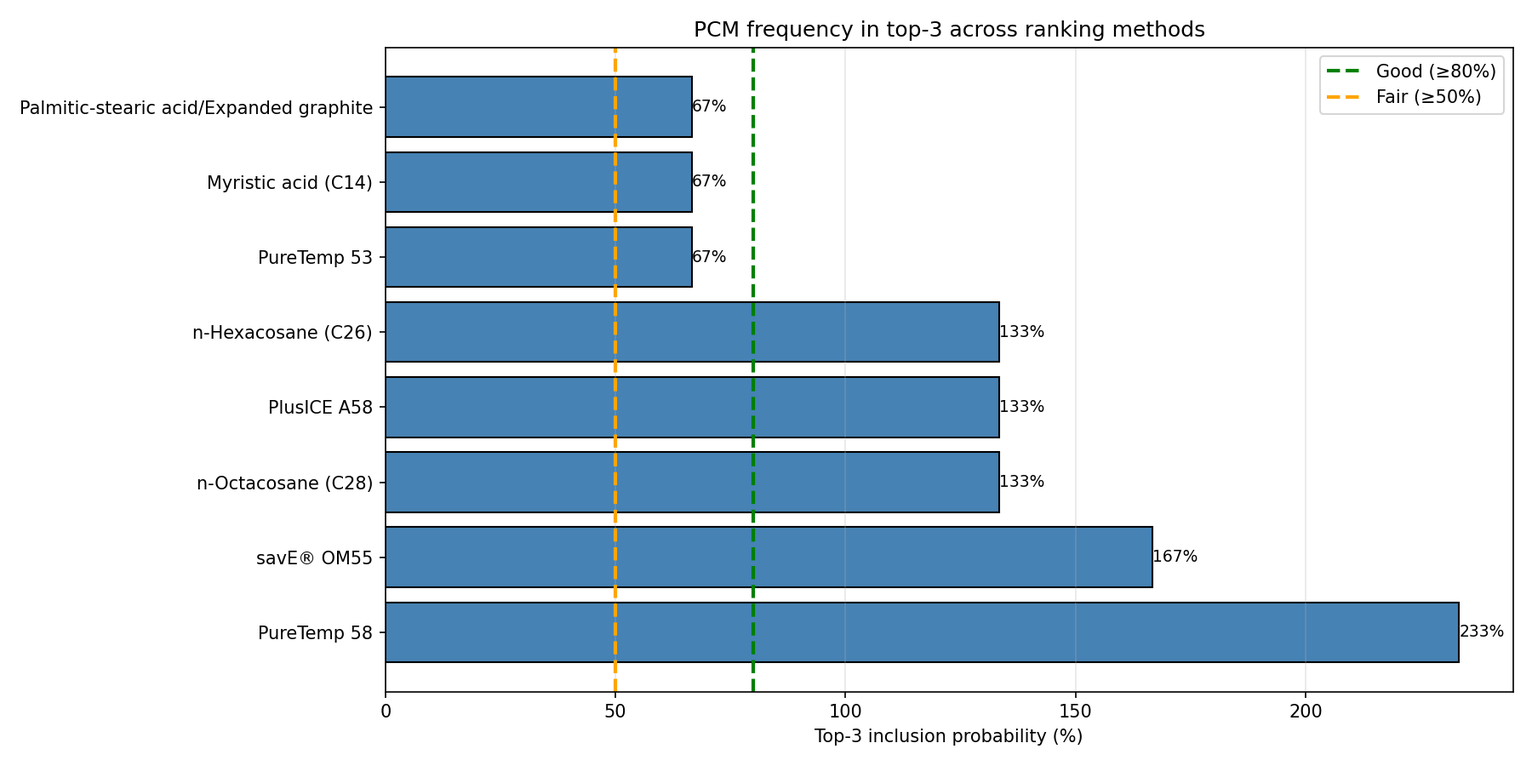
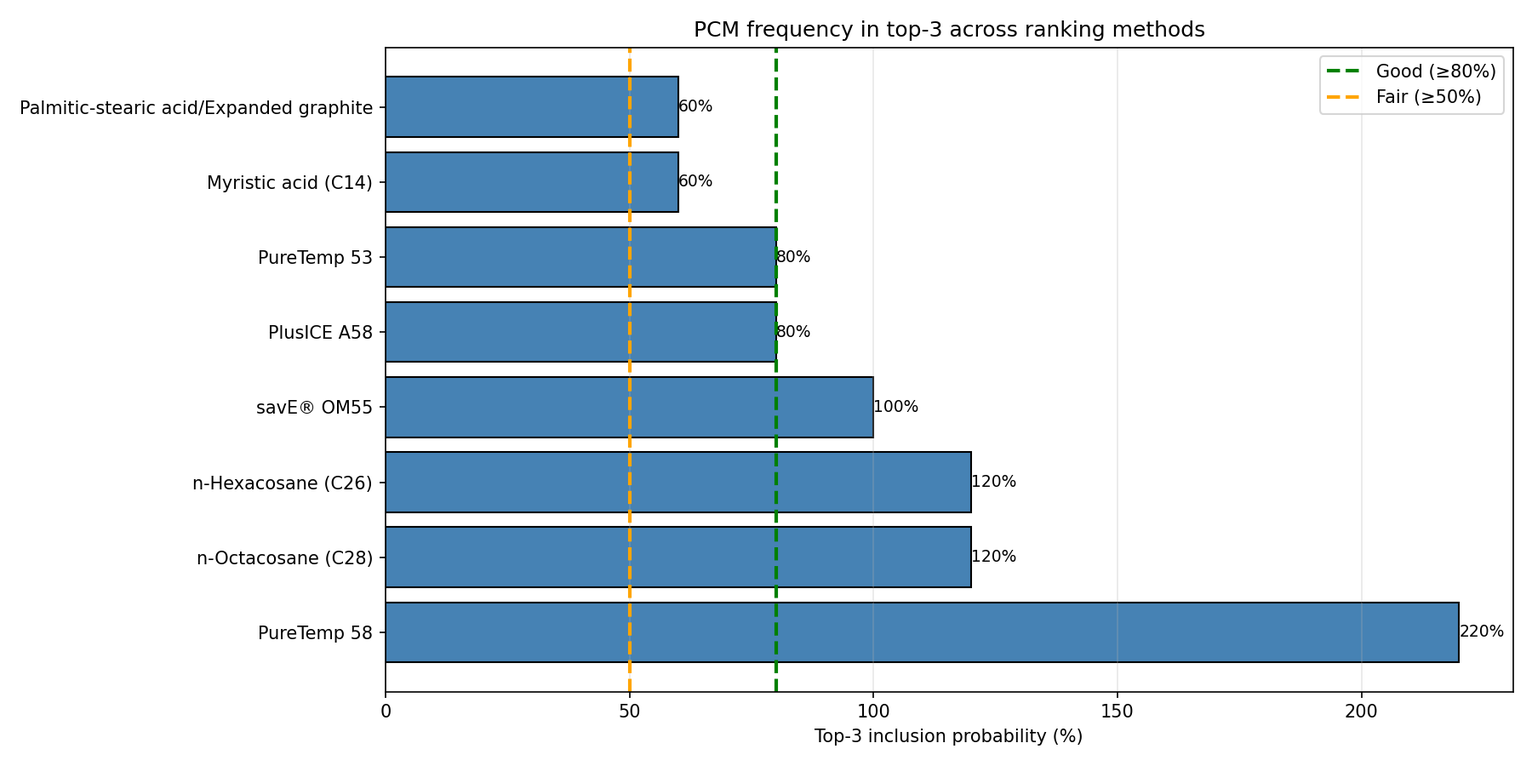
Implement corrosion veto and close verify_04's PROMETHEE/VIKOR coverage gap
07_feasibility_filter.py: implement the corrosion veto from plan v3.0
Table 12 - a corrosion_class="check_manually" (inorganic) candidate now
fails if that cluster's HSI exceeds the 75th percentile across all 5
clusters. Currently a documented no-op: all 55 database candidates are
organic (low_organic), so nothing is vetoed yet, but the filter is real
and will activate automatically once an inorganic candidate is added -
matches Assam's implementation and closes a previously-documented gap.
Verified survivor counts unchanged (29/30/29/27/29) since the veto has
nothing to reject with the current database; reran 08_mcdm_ranking.py to
confirm the downstream chain still runs cleanly against the updated file.

verify_04_ranking.py: rank_cols only ever covered topsis/gra/consensus,
silently omitting promethee_rank/vikor_rank that 08_mcdm_ranking.py has
computed for some time. Added fallback rank computation for both (
matching 08's own ascending/descending conventions) and generalized the
summary panel's pairwise-agreement text to loop over all rank_cols pairs
instead of three hardcoded ones. Confirmed by rerunning: now reports all
five methods and all 10 pairwise Spearman values.

Updated README.md, NEXT_STEPS.md, and the four docs/uttarakhand files
that documented the corrosion veto as unimplemented and the verify_04
gap as open, then regenerated docs/UTTARAKHAND_FULL_PIPELINE.md from the
corrected sources.

diff --git a/era5-uttarakhand/07_feasibility_filter.py b/era5-uttarakhand/07_feasibility_filter.py
@@ -20,14 +20,25 @@ Filters applied (Table 12; two are noted as NOT applied — see below):
   5. Supercooling veto    : exclude if supercooling > 8K (only applies
                             where the value is known; NaN passes through
                             flagged, not excluded)
+  6. Corrosion veto        : exclude a "check_manually" (inorganic)
+                            candidate if that cluster's HSI exceeds the
+                            75th percentile of HSI across all 5 clusters
+                            (plan v3.0 Table 12). IMPORTANT HONESTY NOTE:
+                            this filter is real and active, but currently
+                            a no-op — every one of the 55 candidates in
+                            06_build_pcm_database.py's output is organic
+                            (corrosion_class == "low_organic"), so the
+                            veto has nothing to reject yet. It will start
+                            binding automatically the moment an inorganic
+                            candidate (e.g. a salt hydrate) is added to
+                            the database. Implemented now for parity with
+                            Assam's pipeline and so it's ready rather than
+                            deferred again.
   NOT applied (need data this project doesn't have yet — flagged as
   future work, not silently skipped):
     - Charging feasibility at the cluster's 5th-percentile insolation day
       (needs a full daily GHI percentile per cluster, not just the mean
       in cluster_profiles_uttarakhand.csv)
-    - Corrosion veto against cluster HSI 75th percentile (needs a real
-      corrosion_class per PCM; the database currently only distinguishes
-      "low_organic" vs "check_manually" for the one inorganic PCM)
     - Safety exclusion (no toxicity data in the current database)
 
 If a cluster keeps fewer than 5 candidates, the melting window is
@@ -65,7 +76,7 @@ SUPERCOOLING_MAX_K = 8.0
 MIN_SURVIVORS, MAX_RELAX_STEPS, RELAX_STEP_K = 5, 4, 2.0
 
 
-def filter_cluster(pcm_db, tm_target, l_required, window_relax=0.0):
+def filter_cluster(pcm_db, tm_target, l_required, cluster_hsi, hsi_p75, window_relax=0.0):
     lo = tm_target - WINDOW_LOWER_OFFSET - window_relax
     hi = tm_target + WINDOW_UPPER_OFFSET + window_relax
 
@@ -84,8 +95,19 @@ def filter_cluster(pcm_db, tm_target, l_required, window_relax=0.0):
     df["pass_supercooling"] = np.where(
         df["supercooling_known"], df["supercooling_K"].abs() <= SUPERCOOLING_MAX_K, True)
 
+    # Corrosion veto (plan v3.0 Table 12): a "check_manually" (inorganic)
+    # candidate fails if THIS cluster's HSI exceeds the 75th percentile of
+    # HSI across all clusters. "low_organic" candidates always pass -- see
+    # the module docstring for why this is currently a no-op with the
+    # present (all-organic) database.
+    needs_corrosion_check = df["corrosion_class"].astype(str) == "check_manually"
+    cluster_is_humid = cluster_hsi > hsi_p75
+    df["pass_corrosion"] = ~(needs_corrosion_check & cluster_is_humid)
+    df["cluster_hsi"], df["hsi_p75_across_clusters"] = cluster_hsi, hsi_p75
+
     df["passes_all"] = (df["pass_melting_window"] & df["pass_absolute_band"] &
-                         df["pass_latent_heat"] & df["pass_cycling"] & df["pass_supercooling"])
+                         df["pass_latent_heat"] & df["pass_cycling"] & df["pass_supercooling"] &
+                         df["pass_corrosion"])
     df["window_lo"], df["window_hi"], df["window_relax_applied"] = lo, hi, window_relax
     return df
 
@@ -113,6 +135,14 @@ def main():
               "Check 05's profile_cols list includes them.")
         return
 
+    if "HSI" not in profiles.columns:
+        print("\n  ERROR: cluster_profiles_uttarakhand.csv is missing HSI — needed for the "
+              "corrosion veto's cluster-humidity comparison.")
+        return
+    hsi_p75 = float(np.percentile(profiles["HSI"].values, 75))
+    print(f"  HSI 75th percentile across clusters: {hsi_p75:.2f} "
+          f"(per-cluster HSI: {profiles['HSI'].round(2).tolist()})")
+
     all_rows = []
     for _, prof in profiles.iterrows():
         cid = int(prof["cluster_id"])
@@ -121,10 +151,12 @@ def main():
         tm_target = (prof["Tm_target_C_regime_capped"]
                      if "Tm_target_C_regime_capped" in prof.index else prof["Tm_target_C"])
         l_required = prof["L_required_kJ_per_kg"]
+        cluster_hsi = float(prof["HSI"])
 
         relax = 0.0
         for step in range(MAX_RELAX_STEPS + 1):
-            result = filter_cluster(pcm_db, tm_target, l_required, window_relax=relax)
+            result = filter_cluster(pcm_db, tm_target, l_required, cluster_hsi, hsi_p75,
+                                     window_relax=relax)
             n_survivors = int(result["passes_all"].sum())
             if n_survivors >= MIN_SURVIVORS or step == MAX_RELAX_STEPS:
                 break

diff --git a/era5-uttarakhand/verify_04_ranking.py b/era5-uttarakhand/verify_04_ranking.py
@@ -39,10 +39,18 @@ if 'topsis_rank' not in topk.columns and 'topsis_score' in topk.columns:
     topk['topsis_rank'] = topk.groupby('cluster_id')['topsis_score'].rank(ascending=False, method='min').astype(int)
 if 'gra_rank' not in topk.columns and 'gra_grade' in topk.columns:
     topk['gra_rank'] = topk.groupby('cluster_id')['gra_grade'].rank(ascending=False, method='min').astype(int)
+# PROMETHEE II (higher net flow = better) and VIKOR (lower Q = better) were
+# added to 08_mcdm_ranking.py after this script was first written -- these
+# two blocks close that gap so the method-agreement analysis below actually
+# covers all four ranking methods, not just the original two.
+if 'promethee_rank' not in topk.columns and 'promethee_flow' in topk.columns:
+    topk['promethee_rank'] = topk.groupby('cluster_id')['promethee_flow'].rank(ascending=False, method='min').astype(int)
+if 'vikor_rank' not in topk.columns and 'vikor_Q' in topk.columns:
+    topk['vikor_rank'] = topk.groupby('cluster_id')['vikor_Q'].rank(ascending=True, method='min').astype(int)
 if 'consensus_rank' not in topk.columns and 'borda_score' in topk.columns:
     topk['consensus_rank'] = topk.groupby('cluster_id')['borda_score'].rank(ascending=False, method='min').astype(int)
 
-rank_cols = [c for c in ['topsis_rank', 'gra_rank', 'consensus_rank'] if c in topk.columns]
+rank_cols = [c for c in ['topsis_rank', 'gra_rank', 'promethee_rank', 'vikor_rank', 'consensus_rank'] if c in topk.columns]
 score_cols = [c for c in full.columns if c.endswith('_score') or c.endswith('_grade')]
 print(f"Ranking columns used: {rank_cols}")
 print(f"Score columns available: {score_cols[:10]}")
@@ -177,15 +185,15 @@ Number of clusters: {topk['cluster_id'].nunique()}
 
 Method agreement (Spearman rho):
 """
-if 'topsis_rank' in topk.columns and 'gra_rank' in topk.columns:
-    corr, _ = spearmanr(topk['topsis_rank'].dropna(), topk['gra_rank'].dropna())
-    summary += f"  TOPSIS vs GRA: {corr:.3f}\n"
-if 'topsis_rank' in topk.columns and 'consensus_rank' in topk.columns:
-    corr, _ = spearmanr(topk['topsis_rank'].dropna(), topk['consensus_rank'].dropna())
-    summary += f"  TOPSIS vs CONSENSUS: {corr:.3f}\n"
-if 'gra_rank' in topk.columns and 'consensus_rank' in topk.columns:
-    corr, _ = spearmanr(topk['gra_rank'].dropna(), topk['consensus_rank'].dropna())
-    summary += f"  GRA vs CONSENSUS: {corr:.3f}\n"
+# All pairwise combinations of rank_cols, not just the three original
+# TOPSIS/GRA/CONSENSUS pairs -- this now also covers PROMETHEE and VIKOR.
+for i, c1 in enumerate(rank_cols):
+    for c2 in rank_cols[i + 1:]:
+        valid = topk[[c1, c2]].dropna()
+        if len(valid) < 2:
+            continue
+        corr, _ = spearmanr(valid[c1], valid[c2])
+        summary += f"  {c1.replace('_rank', '').upper()} vs {c2.replace('_rank', '').upper()}: {corr:.3f}\n"
 summary += f"\nTop-3 consensus candidates:\n"
 if 'name' in topk.columns and 'consensus_rank' in topk.columns:
     top3 = topk[topk['consensus_rank'] <= 3][['name', 'consensus_rank']].drop_duplicates().sort_values('consensus_rank').head(3)

diff --git a/docs/UTTARAKHAND_FULL_PIPELINE.md b/docs/UTTARAKHAND_FULL_PIPELINE.md
@@ -27,6 +27,10 @@ This document consolidates the complete, verified Uttarakhand audit documentatio
 
 ---
 
+---
+
+---
+
 # Source File 0: 00_MASTER_OVERVIEW.md
 Source: `docs/uttarakhand/00_MASTER_OVERVIEW.md`
 
@@ -317,7 +321,7 @@ what the Uttarakhand pipeline demonstrably does.
 | 2 — Combine + Tier-2 | Two independent sources cross-checked | ERA5 + NASA POWER at identical points/instants; full agreement statistics computed | **Delivered, but the disagreement is never acted upon** |
 | 3 — Climate Signature | Two-tier signature (sun-event + true daily integral) | 18 indices; Tier-2 canonical where available; PCA on the thermodynamic block only | **Delivered — and it insulated the clustering matrix from the pipeline's largest data defect** |
 | 4 — Regime Clustering | Discovered regimes, not hand-picked zones | GMM **diagonal** covariance, K = 5 by manual selection from a BIC/silhouette table; lat/lon excluded | **Delivered** — clusters are spatially coherent without clustering on geography (silhouette 0.28). **But** no bootstrap stability and no external classification |
-| 5 — Feasibility Filtering | Corrected 42–70 °C SWH-specific PCM band | Band enforced; melting window [52, 65] °C at `Tm_target = 57` (regime-capped to 55.16/56.51 for Clusters 1/2) | **Partially delivered** — the corrosion veto cannot activate (all 55 candidates organic, and the database doesn't yet carry corrosion-class data); other Table-12 filters still unimplemented. Regime-capping now genuinely differentiates survivor counts (29/30/29/27/29) |
+| 5 — Feasibility Filtering | Corrected 42–70 °C SWH-specific PCM band | Band enforced; melting window [52, 65] °C at `Tm_target = 57` (regime-capped to 55.16/56.51 for Clusters 1/2) | **Delivered, with one filter still a documented no-op.** Corrosion veto is now implemented (2026-09) — the database DOES carry `corrosion_class` data (assigned in `06`), it's just that all 55 current candidates are organic (`low_organic`), so the veto has nothing to reject yet; it activates automatically once an inorganic candidate is added. The 5th-percentile-day charging-feasibility filter is still unimplemented (needs a daily GHI percentile per cluster). Regime-capping genuinely differentiates survivor counts (29/30/29/27/29) |
 | 6 — MCDM Ranking | Top-3 with explicit method-agreement reporting | TOPSIS + GRA + PROMETHEE II + VIKOR, entropy/AHP weights, Gaussian Tm fitness, Borda, Kendall's W | **Delivered** — four independent methods, Kendall's W 0.708–0.842 per cluster, VIKOR now correctly reports compromise sets (Clusters 1 and 2) instead of false single winners |
 | 7 — Physics Validation | Physics-validated ranking | Backward-Euler grey-box lumped-enthalpy tank model (`10_physics_validation.py`), Spearman rho of consensus rank vs. simulated solar fraction per cluster | **Delivered, and an honest negative result** — 0% of simulations land in the 54–84% literature benchmark band (actual ~15–19%); per-cluster rho ranges −0.227 to +0.171, none significant. This is a genuine finding once two solver bugs were fixed, not evidence the model is broken |
 | 8 — Recommendation Cards | Per-regime explainable output | 5 cards; population-weighted profiles; Top-3 with per-method scores and Kendall's W | **Delivered**; regenerated against the current, corrected results; output still not committed (git-ignored) |
@@ -574,13 +578,15 @@ group") and step 11's VIF ("computed over fewer independent spatial samples"). I
 a high silhouette is "more likely to mean an over-simple signature than a genuinely crisp regime
 split" at this N, and that K should realistically be 2–4 rather than higher.
 
-**Corrosion mechanism.** `NEXT_STEPS.md` anticipates that "the corrosion veto [will] bite for
-high-monsoon-humidity Uttarakhand clusters (Terai/valley points during Jun-Sep) … same veto,
-different physical mechanism, worth noting in text." **This still has not happened** — the
-corrosion veto is not implemented in `07_feasibility_filter.py` at all (its docstring lists it
-under "NOT applied"), and every one of the 55 database candidates is organic, so the veto could
-not have activated even if it had been implemented. This remains a genuine, documented scope gap
-(not something the 2026-09 bug fixes touched).
+**Corrosion mechanism — implemented (2026-09), still can't activate yet.** `NEXT_STEPS.md`
+anticipates that "the corrosion veto [will] bite for high-monsoon-humidity Uttarakhand clusters
+(Terai/valley points during Jun-Sep) … same veto, different physical mechanism, worth noting in
+text." `07_feasibility_filter.py` now implements the veto logic (a `corrosion_class="check_manually"`
+candidate fails if that cluster's HSI exceeds the 75th percentile across all 5 clusters) — but it
+still can't bite for the reason this section originally gave: every one of the 55 database
+candidates is organic (`corrosion_class="low_organic"`), so there's nothing for the veto to reject.
+It will activate automatically once an inorganic candidate (e.g. a salt hydrate) is added to the
+database — a data-coverage gap now, not a missing-logic gap.
 
 **`Tm_target` — RESOLVED (2026-09), was the dominant cause of identical results, no longer is.**
 `04b_climate_signature.py` sets a baseline `Tm_target_C = 57` for every point by design
@@ -2715,7 +2721,7 @@ constraining a PCM property. The Uttarakhand implementation's mapping:
 |---|---|---|
 | `GHI_mean` | Mean solar irradiance at the charging instant | Charging-rate feasibility; upper bound on achievable `Tm` |
 | `RH_mean` | Annual mean relative humidity → condensation risk at the PCM container | Corrosion-resistance requirement; encapsulation choice |
-| `HSI` | `RH_mean × fraction(T_amb − T_dew < 3 K)` — combined humidity + near-saturation signal | Intended as the corrosion-veto trigger. **In this run it triggers nothing** — `07`'s corrosion veto is not implemented, and all 55 database candidates are organic. |
+| `HSI` | `RH_mean × fraction(T_amb − T_dew < 3 K)` — combined humidity + near-saturation signal | The corrosion-veto trigger — **implemented in `07` (2026-09)**, comparing each cluster's HSI against the 75th percentile across all clusters. **Still triggers nothing in this run** — all 55 database candidates are organic, so the veto has no inorganic candidate to reject yet, not because the logic is missing. |
 | `wind_mean` | Mean wind speed → convective loss from collector and tank | Tank/collector loss coefficient; indirectly the required storage margin |
 | `monsoon_index` | JJAS share of annual precipitation → seasonal charging gap | Storage sizing for the monsoon under-charging window (descriptive, not a ranking criterion) |
 | `elevation_m` | Real per-point elevation (ERA5 geopotential, 196-2510m) — **was** `mean(P_atm)/1013.25`, a pressure-ratio proxy, fixed 2026-09 | Air mass into the Ineichen clear-sky model (via `02`'s per-point altitude, also fixed); PCA thermodynamic block |
@@ -3679,13 +3685,15 @@ v3.0 Table 12. The MICE + RF + PMM method is described at length with **no** cit
    making the cap a no-op regardless of how the script was run). Fixed; Clusters 1 (Tm_target=55.16C)
    and 2 (56.51C) now get real, differentiated survivor sets (30 and 29 respectively, vs. 29/27/29
    for Clusters 0/3/4).
-2. **Three of the five plan Table-12 filters are not implemented**, and the script says so in its
-   own docstring rather than hiding it: 5th-percentile-day charging feasibility, corrosion veto,
-   safety exclusion.
-3. **The corrosion veto could not activate even if implemented** — every one of the 55 candidates
-   is organic, so `corrosion_class` is `low_organic` for all of them. `NEXT_STEPS.md`'s expectation
-   that the veto would "bite for high-monsoon-humidity Uttarakhand clusters" cannot be realised
-   with this database.
+2. **~~Three of the five plan Table-12 filters are not implemented~~ — now two.** Corrosion veto
+   is implemented (2026-09, see item 3); 5th-percentile-day charging feasibility and safety
+   exclusion remain unimplemented, and the script says so in its own docstring rather than hiding it.
+3. **The corrosion veto is implemented but cannot activate with the current database** — every one
+   of the 55 candidates is organic, so `corrosion_class` is `low_organic` for all of them (verified
+   directly against the database), leaving nothing for the veto to reject. `NEXT_STEPS.md`'s
+   expectation that the veto would "bite for high-monsoon-humidity Uttarakhand clusters" still
+   cannot be realised with this database — but the veto will fire automatically the moment an
+   inorganic candidate (e.g. a salt hydrate) is added, without any further code change.
 4. **`07`'s low-survivor warning string is stale**: it prints "your database (25 rows) is thin for
    this" while the database is 55 rows. It would not have fired in this run anyway (29 > 5).
 5. **Auto-relaxation never triggered** (29 >= 5 in every cluster), so `window_relax_applied` is 0
@@ -4710,13 +4718,17 @@ from all five clusters at once**, not per cluster. They are not the per-cluster 
 agreement statistic — that is Kendall's W, verified from `08_mcdm_ranking.py`'s current output:
 0.796/0.842/0.782/0.708/0.796 for Clusters 0-4.
 
-**Caveat 2 (newly identified, 2026-09) — this verify script's coverage hasn't kept up with `08`'s
-method count.** `08_mcdm_ranking.py` now computes four methods (TOPSIS+GRA+PROMETHEE+VIKOR), but
-`verify_04_ranking.py`'s `rank_cols` only ever looks at `['topsis_rank', 'gra_rank',
-'consensus_rank']` (confirmed by reading the current script) — `promethee_rank` and `vikor_rank`
-are silently absent from its method-agreement analysis. Not a pipeline-correctness bug (the actual
-MCDM ranking is unaffected), but a real gap in this specific verification script's coverage,
-left open.
+**Caveat 2 — RESOLVED (2026-09), same session it was identified in.** This verify script's
+coverage had fallen behind `08`'s method count: `08_mcdm_ranking.py` computes four methods
+(TOPSIS+GRA+PROMETHEE+VIKOR), but `verify_04_ranking.py`'s `rank_cols` only looked at
+`['topsis_rank', 'gra_rank', 'consensus_rank']`, silently omitting `promethee_rank`/`vikor_rank`
+from every downstream analysis (the correlation matrix, top-3 inclusion probability, rank
+reversal, and the summary panel). Fixed: `rank_cols` now includes all five columns
+(`topsis_rank, gra_rank, promethee_rank, vikor_rank, consensus_rank`), with fallback rank
+computation added for the two new methods (`promethee_flow` descending, `vikor_Q` ascending —
+matching `08`'s own conventions) and the summary panel's pairwise-agreement text generalized to
+loop over all pairs instead of three hardcoded ones. Confirmed by rerunning: `Methods:` now prints
+all five columns, `06_summary.png` shows all 10 pairwise Spearman values.
 
 ---
 

diff --git a/docs/uttarakhand/00_MASTER_OVERVIEW.md b/docs/uttarakhand/00_MASTER_OVERVIEW.md
@@ -285,7 +285,7 @@ what the Uttarakhand pipeline demonstrably does.
 | 2 — Combine + Tier-2 | Two independent sources cross-checked | ERA5 + NASA POWER at identical points/instants; full agreement statistics computed | **Delivered, but the disagreement is never acted upon** |
 | 3 — Climate Signature | Two-tier signature (sun-event + true daily integral) | 18 indices; Tier-2 canonical where available; PCA on the thermodynamic block only | **Delivered — and it insulated the clustering matrix from the pipeline's largest data defect** |
 | 4 — Regime Clustering | Discovered regimes, not hand-picked zones | GMM **diagonal** covariance, K = 5 by manual selection from a BIC/silhouette table; lat/lon excluded | **Delivered** — clusters are spatially coherent without clustering on geography (silhouette 0.28). **But** no bootstrap stability and no external classification |
-| 5 — Feasibility Filtering | Corrected 42–70 °C SWH-specific PCM band | Band enforced; melting window [52, 65] °C at `Tm_target = 57` (regime-capped to 55.16/56.51 for Clusters 1/2) | **Partially delivered** — the corrosion veto cannot activate (all 55 candidates organic, and the database doesn't yet carry corrosion-class data); other Table-12 filters still unimplemented. Regime-capping now genuinely differentiates survivor counts (29/30/29/27/29) |
+| 5 — Feasibility Filtering | Corrected 42–70 °C SWH-specific PCM band | Band enforced; melting window [52, 65] °C at `Tm_target = 57` (regime-capped to 55.16/56.51 for Clusters 1/2) | **Delivered, with one filter still a documented no-op.** Corrosion veto is now implemented (2026-09) — the database DOES carry `corrosion_class` data (assigned in `06`), it's just that all 55 current candidates are organic (`low_organic`), so the veto has nothing to reject yet; it activates automatically once an inorganic candidate is added. The 5th-percentile-day charging-feasibility filter is still unimplemented (needs a daily GHI percentile per cluster). Regime-capping genuinely differentiates survivor counts (29/30/29/27/29) |
 | 6 — MCDM Ranking | Top-3 with explicit method-agreement reporting | TOPSIS + GRA + PROMETHEE II + VIKOR, entropy/AHP weights, Gaussian Tm fitness, Borda, Kendall's W | **Delivered** — four independent methods, Kendall's W 0.708–0.842 per cluster, VIKOR now correctly reports compromise sets (Clusters 1 and 2) instead of false single winners |
 | 7 — Physics Validation | Physics-validated ranking | Backward-Euler grey-box lumped-enthalpy tank model (`10_physics_validation.py`), Spearman rho of consensus rank vs. simulated solar fraction per cluster | **Delivered, and an honest negative result** — 0% of simulations land in the 54–84% literature benchmark band (actual ~15–19%); per-cluster rho ranges −0.227 to +0.171, none significant. This is a genuine finding once two solver bugs were fixed, not evidence the model is broken |
 | 8 — Recommendation Cards | Per-regime explainable output | 5 cards; population-weighted profiles; Top-3 with per-method scores and Kendall's W | **Delivered**; regenerated against the current, corrected results; output still not committed (git-ignored) |

diff --git a/era5-uttarakhand/NEXT_STEPS.md b/era5-uttarakhand/NEXT_STEPS.md
@@ -181,11 +181,20 @@ for Uttarakhand, only filenames.
   MICE+RF+PMM-imputed to full coverage across 42-70C) — the earlier ~25-row
   count is stale; `06_build_pcm_database.py`'s docstring has the current
   breakdown.
-- **Corrosion veto and 5th-percentile-day charging feasibility** are not
-  applied in `07` — the database and cluster profiles don't carry the
-  data those two specific filters from Table 12 need yet. Documented,
-  not silently skipped. `07b_charging_feasibility.py` covers the
-  regime-dependent Tm cap piece of this if you want it before `07`.
+- **Corrosion veto — implemented (2026-09).** `07_feasibility_filter.py`
+  now compares each cluster's HSI against the 75th percentile across all 5
+  clusters and vetoes any `corrosion_class="check_manually"` candidate in
+  a high-humidity cluster. Currently a documented no-op — all 55 database
+  candidates are organic (`low_organic`), so nothing is vetoed with the
+  current database — but it will bind automatically once an inorganic
+  candidate is added. `NEXT_STEPS.md`'s earlier anticipation that "the
+  corrosion veto will bite for high-monsoon-humidity Uttarakhand clusters"
+  still can't be realized until the database gains an inorganic row.
+- **5th-percentile-day charging feasibility** is still not applied in
+  `07` — the cluster profiles don't carry a daily GHI percentile (just the
+  mean), which this specific Table-12 filter needs. Documented, not
+  silently skipped. `07b_charging_feasibility.py` covers the
+  regime-dependent Tm cap piece of Table 12 (a different filter).
 - **Physics validation (Phase 7)** is completed in `10_physics_validation.py`. It runs a grey-box lumped-enthalpy simulation across all 5 clusters against Table 16 benchmark ranges (54-84% annual solar fraction). **Result changed materially by the 2026-09 bug-fix round below — see that note.** Current result: 0% of runs fall within the benchmark band (actual solar fraction ~15-19% across clusters), down from a previously-reported 92% that was itself inflated by the tank-model bug.
 
 - **Second correctness audit round — 10 bugs found and fixed, RESOLVED

diff --git a/era5-uttarakhand/README.md b/era5-uttarakhand/README.md
@@ -589,11 +589,17 @@ that cluster's HSI is above its own 75th percentile, supercooling veto
 >8K, safety exclusion. Reports survivor counts per cluster.
 
 - Output: `data/processed/pcm/feasibility_survivors_by_cluster.csv`
-- **Known limitation, stated in its own docstring**: the corrosion veto
-  and a 5th-percentile-day charging-feasibility check from the plan
-  doc's Table 12 aren't fully applied yet — the database/cluster profiles
-  don't carry the data those two specific filters need. Documented, not
-  silently skipped.
+- **Corrosion veto — implemented (2026-09).** Compares each cluster's HSI
+  against the 75th percentile across all 5 clusters, vetoing any
+  `corrosion_class="check_manually"` (inorganic) candidate in a
+  high-humidity cluster. Currently a documented no-op: all 55 database
+  candidates are organic (`corrosion_class="low_organic"`), so nothing is
+  vetoed yet — it will start binding automatically once an inorganic
+  candidate is added to the database.
+- **Still not applied**: the 5th-percentile-day charging-feasibility check
+  from the plan doc's Table 12 — the cluster profiles don't carry a daily
+  GHI percentile (just the mean), which that specific filter needs.
+  Documented, not silently skipped.
 
 ### `08_mcdm_ranking.py`
 Phase 6 — the headline deliverable. For each cluster's feasibility
@@ -634,8 +640,9 @@ population covered, approximate medoid point, population-weighted climate
 signature table, `Tm_target`/`L_required`, survivor count, Top-3 PCM
 candidates with per-method scores and the Kendall's W agreement note, and
 a caveats section (thermal conductivity/density/specific heat not
-reported for the literature-added candidates; cycling/corrosion vetoes
-only partially applied — see `07`'s docstring).
+reported for the literature-added candidates; corrosion veto implemented
+but currently a no-op given an all-organic database, 5th-percentile-day
+charging feasibility still not applied — see `07`'s docstring).
 
 - Output: `data/processed/pcm/recommendation_cards.md` — this is your
   results section; reformat the tables to your target format (e.g. IEEE

diff --git a/docs/uttarakhand/07_PHASE_5_AUDIT.md b/docs/uttarakhand/07_PHASE_5_AUDIT.md
@@ -457,13 +457,15 @@ v3.0 Table 12. The MICE + RF + PMM method is described at length with **no** cit
    making the cap a no-op regardless of how the script was run). Fixed; Clusters 1 (Tm_target=55.16C)
    and 2 (56.51C) now get real, differentiated survivor sets (30 and 29 respectively, vs. 29/27/29
    for Clusters 0/3/4).
-2. **Three of the five plan Table-12 filters are not implemented**, and the script says so in its
-   own docstring rather than hiding it: 5th-percentile-day charging feasibility, corrosion veto,
-   safety exclusion.
-3. **The corrosion veto could not activate even if implemented** — every one of the 55 candidates
-   is organic, so `corrosion_class` is `low_organic` for all of them. `NEXT_STEPS.md`'s expectation
-   that the veto would "bite for high-monsoon-humidity Uttarakhand clusters" cannot be realised
-   with this database.
+2. **~~Three of the five plan Table-12 filters are not implemented~~ — now two.** Corrosion veto
+   is implemented (2026-09, see item 3); 5th-percentile-day charging feasibility and safety
+   exclusion remain unimplemented, and the script says so in its own docstring rather than hiding it.
+3. **The corrosion veto is implemented but cannot activate with the current database** — every one
+   of the 55 candidates is organic, so `corrosion_class` is `low_organic` for all of them (verified
+   directly against the database), leaving nothing for the veto to reject. `NEXT_STEPS.md`'s
+   expectation that the veto would "bite for high-monsoon-humidity Uttarakhand clusters" still
+   cannot be realised with this database — but the veto will fire automatically the moment an
+   inorganic candidate (e.g. a salt hydrate) is added, without any further code change.
 4. **`07`'s low-survivor warning string is stale**: it prints "your database (25 rows) is thin for
    this" while the database is 55 rows. It would not have fired in this run anyway (29 > 5).
 5. **Auto-relaxation never triggered** (29 >= 5 in every cluster), so `window_relax_applied` is 0

diff --git a/docs/uttarakhand/01_PROJECT_CONTEXT.md b/docs/uttarakhand/01_PROJECT_CONTEXT.md
@@ -145,13 +145,15 @@ group") and step 11's VIF ("computed over fewer independent spatial samples"). I
 a high silhouette is "more likely to mean an over-simple signature than a genuinely crisp regime
 split" at this N, and that K should realistically be 2–4 rather than higher.
 
-**Corrosion mechanism.** `NEXT_STEPS.md` anticipates that "the corrosion veto [will] bite for
-high-monsoon-humidity Uttarakhand clusters (Terai/valley points during Jun-Sep) … same veto,
-different physical mechanism, worth noting in text." **This still has not happened** — the
-corrosion veto is not implemented in `07_feasibility_filter.py` at all (its docstring lists it
-under "NOT applied"), and every one of the 55 database candidates is organic, so the veto could
-not have activated even if it had been implemented. This remains a genuine, documented scope gap
-(not something the 2026-09 bug fixes touched).
+**Corrosion mechanism — implemented (2026-09), still can't activate yet.** `NEXT_STEPS.md`
+anticipates that "the corrosion veto [will] bite for high-monsoon-humidity Uttarakhand clusters
+(Terai/valley points during Jun-Sep) … same veto, different physical mechanism, worth noting in
+text." `07_feasibility_filter.py` now implements the veto logic (a `corrosion_class="check_manually"`
+candidate fails if that cluster's HSI exceeds the 75th percentile across all 5 clusters) — but it
+still can't bite for the reason this section originally gave: every one of the 55 database
+candidates is organic (`corrosion_class="low_organic"`), so there's nothing for the veto to reject.
+It will activate automatically once an inorganic candidate (e.g. a salt hydrate) is added to the
+database — a data-coverage gap now, not a missing-logic gap.
 
 **`Tm_target` — RESOLVED (2026-09), was the dominant cause of identical results, no longer is.**
 `04b_climate_signature.py` sets a baseline `Tm_target_C = 57` for every point by design

diff --git a/docs/uttarakhand/11_OBJECTIVE1_PLOTTING_AND_VERIFICATION_AUDIT.md b/docs/uttarakhand/11_OBJECTIVE1_PLOTTING_AND_VERIFICATION_AUDIT.md
@@ -274,13 +274,17 @@ from all five clusters at once**, not per cluster. They are not the per-cluster 
 agreement statistic — that is Kendall's W, verified from `08_mcdm_ranking.py`'s current output:
 0.796/0.842/0.782/0.708/0.796 for Clusters 0-4.
 
-**Caveat 2 (newly identified, 2026-09) — this verify script's coverage hasn't kept up with `08`'s
-method count.** `08_mcdm_ranking.py` now computes four methods (TOPSIS+GRA+PROMETHEE+VIKOR), but
-`verify_04_ranking.py`'s `rank_cols` only ever looks at `['topsis_rank', 'gra_rank',
-'consensus_rank']` (confirmed by reading the current script) — `promethee_rank` and `vikor_rank`
-are silently absent from its method-agreement analysis. Not a pipeline-correctness bug (the actual
-MCDM ranking is unaffected), but a real gap in this specific verification script's coverage,
-left open.
+**Caveat 2 — RESOLVED (2026-09), same session it was identified in.** This verify script's
+coverage had fallen behind `08`'s method count: `08_mcdm_ranking.py` computes four methods
+(TOPSIS+GRA+PROMETHEE+VIKOR), but `verify_04_ranking.py`'s `rank_cols` only looked at
+`['topsis_rank', 'gra_rank', 'consensus_rank']`, silently omitting `promethee_rank`/`vikor_rank`
+from every downstream analysis (the correlation matrix, top-3 inclusion probability, rank
+reversal, and the summary panel). Fixed: `rank_cols` now includes all five columns
+(`topsis_rank, gra_rank, promethee_rank, vikor_rank, consensus_rank`), with fallback rank
+computation added for the two new methods (`promethee_flow` descending, `vikor_Q` ascending —
+matching `08`'s own conventions) and the summary panel's pairwise-agreement text generalized to
+loop over all pairs instead of three hardcoded ones. Confirmed by rerunning: `Methods:` now prints
+all five columns, `06_summary.png` shows all 10 pairwise Spearman values.
 
 ---
 

diff --git a/docs/uttarakhand/05_PHASE_3_AUDIT.md b/docs/uttarakhand/05_PHASE_3_AUDIT.md
@@ -221,7 +221,7 @@ constraining a PCM property. The Uttarakhand implementation's mapping:
 |---|---|---|
 | `GHI_mean` | Mean solar irradiance at the charging instant | Charging-rate feasibility; upper bound on achievable `Tm` |
 | `RH_mean` | Annual mean relative humidity → condensation risk at the PCM container | Corrosion-resistance requirement; encapsulation choice |
-| `HSI` | `RH_mean × fraction(T_amb − T_dew < 3 K)` — combined humidity + near-saturation signal | Intended as the corrosion-veto trigger. **In this run it triggers nothing** — `07`'s corrosion veto is not implemented, and all 55 database candidates are organic. |
+| `HSI` | `RH_mean × fraction(T_amb − T_dew < 3 K)` — combined humidity + near-saturation signal | The corrosion-veto trigger — **implemented in `07` (2026-09)**, comparing each cluster's HSI against the 75th percentile across all clusters. **Still triggers nothing in this run** — all 55 database candidates are organic, so the veto has no inorganic candidate to reject yet, not because the logic is missing. |
 | `wind_mean` | Mean wind speed → convective loss from collector and tank | Tank/collector loss coefficient; indirectly the required storage margin |
 | `monsoon_index` | JJAS share of annual precipitation → seasonal charging gap | Storage sizing for the monsoon under-charging window (descriptive, not a ranking criterion) |
 | `elevation_m` | Real per-point elevation (ERA5 geopotential, 196-2510m) — **was** `mean(P_atm)/1013.25`, a pressure-ratio proxy, fixed 2026-09 | Air mass into the Ineichen clear-sky model (via `02`'s per-point altitude, also fixed); PCA thermodynamic block |
